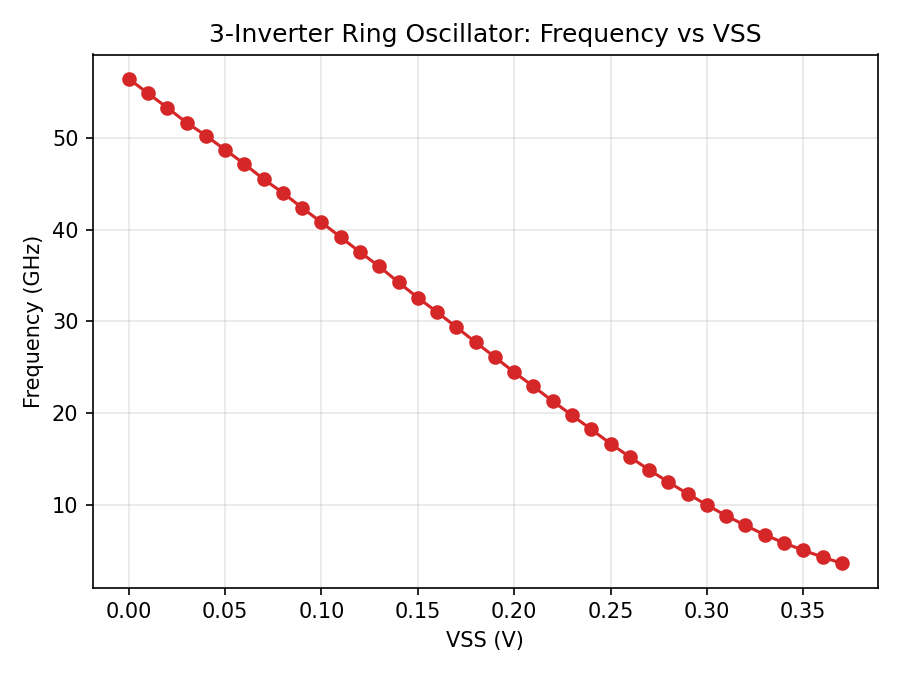
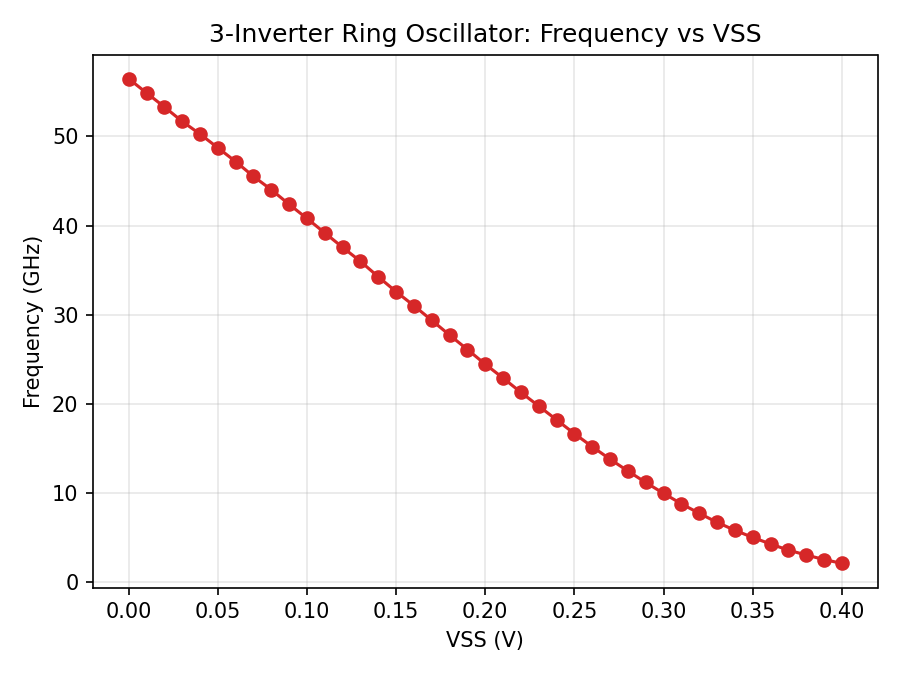
Regenerate freq-vs-VSS plots from full sweep data, exclude invalid 21-inv 0.4V point
Claude-Session: https://claude.ai/code/session_01TwEaK98T8wvVCGbVG727t2

diff --git a/lab2/lab2.md b/lab2/lab2.md
@@ -27,6 +27,5 @@ N = 2\*number fo inverters
 
 ![3-inverter ring: frequency vs VSS](results_3/freq_vs_vss.png)
 
-Frequency drops monotonically as VSS is raised, since tpHL grows much faster than tpLH (e.g. 21-inv: tpHL 3.13ps -> 8.73ps, tpLH roughly flat ~3.2-3.7ps over VSS = 0-0.18V) — raising VSS reduces the NMOS gate-source overdrive (Vgsn = VDD-VSS), slowing the pull-down path while the PMOS pull-up path (source still referenced to VDD) is largely unaffected. \
-Oscillation collapses once VSS eats too far into the supply headroom: the 21-inverter ring stops oscillating beyond VSS ~= 0.18-0.19V, while the 3-inverter ring keeps oscillating out to VSS ~= 0.37V before failing — the shorter ring's larger per-stage overdrive margin (fewer stacked delay stages needed to sustain the loop) lets it tolerate a smaller VDD-VSS swing.
+Frequency drops monotonically as VSS is raised — from 7.60GHz to 0.33GHz (21-inv, VSS = 0-0.39V) and from 56.45GHz to 2.14GHz (3-inv, VSS = 0-0.4V).
 
